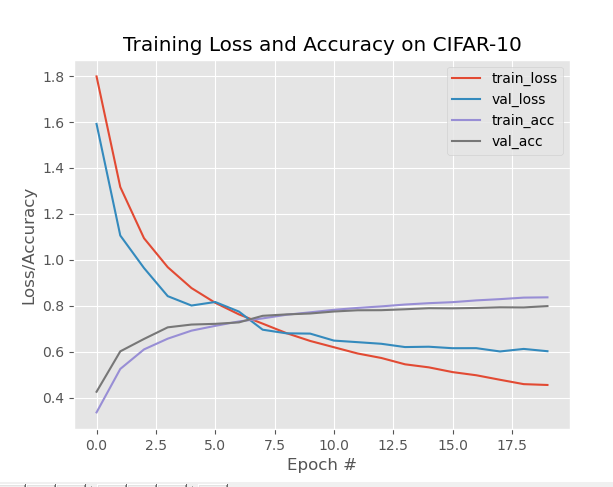
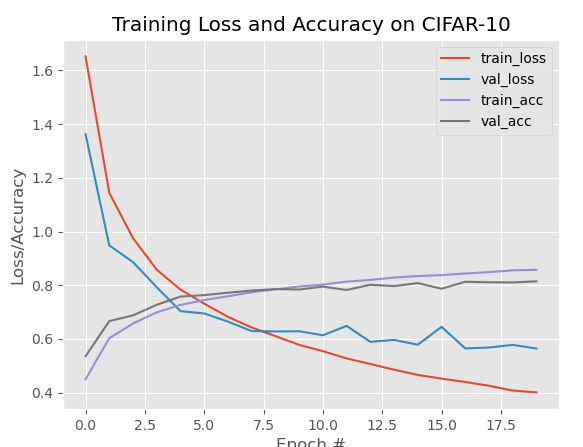
Refactor minivggnet with batch normalization

diff --git a/cnnmodel/minivggnet.py b/cnnmodel/minivggnet.py
@@ -15,30 +15,28 @@ class MiniVGGNet:
         # Depth is the number of channels in the input image
         model = Sequential()
         inputShape = (height, width, depth)
-        # Implies that the index of the channel dimension is last in the input shape
-        chanDim = -1
+
         # If we are using channels first, update the input shape
         if K.image_data_format() == "channels_first":
             inputShape = (depth, height, width)
-            chanDim = 1
         
         # First set of CONV => RELU => CONV => RELU => POOL Layers
         model.add(Conv2D(32, (3,3), padding="same", input_shape=inputShape))
         model.add(Activation("relu"))
-        # model.add(BatchNormalization(axis=chanDim))
+        model.add(BatchNormalization())
         model.add(Conv2D(32, (3,3), padding="same"))
         model.add(Activation("relu"))
-        # model.add(BatchNormalization(axis=chanDim))
+        model.add(BatchNormalization())
         model.add(MaxPooling2D(pool_size=(2,2)))
         model.add(Dropout(0.25))
 
         # Second set of CONV => RELU => CONV => RELU => POOL Layers
         model.add(Conv2D(64, (3,3), padding="same", input_shape=inputShape))
         model.add(Activation("relu"))
-        model.add(BatchNormalization(axis=chanDim))
+        model.add(BatchNormalization())
         model.add(Conv2D(64, (3,3), padding="same"))
         model.add(Activation("relu"))
-        # model.add(BatchNormalization(axis=chanDim))
+        model.add(BatchNormalization())
         model.add(MaxPooling2D(pool_size=(2,2)))
         model.add(Dropout(0.25))
 
@@ -46,7 +44,7 @@ class MiniVGGNet:
         model.add(Flatten())
         model.add(Dense(512))
         model.add(Activation("relu"))
-        # model.add(BatchNormalization)
+        model.add(BatchNormalization())
         model.add(Dropout(0.5))
 
         # Final softmax classifier with class probabilities

diff --git a/README.md b/README.md
@@ -74,7 +74,7 @@ SOFTMSX | 1O |
 
 * CIFAR-10 **ShallowNet** Classification: [60% Accuracy on average](output/shallownet_cifar10_trainingEval.txt)
 ![kerasCIFAR10](/output/shallownet_cifar10.PNG)
-* CIFAR-10 **VGGNet** Classification: [80% Accuracy on average](output/minivggnet_cifar10_trainingEval.txt)
+* CIFAR-10 **VGGNet** Classification: [81% Accuracy on average](output/minivggnet_cifar10_trainingEval.txt)
 ![kerasCIFAR10](/output/minivggnet_cifar10.PNG)
 
 ### References:
